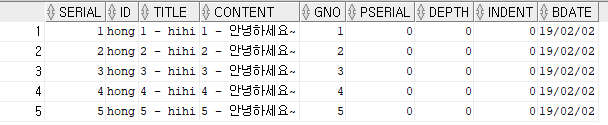
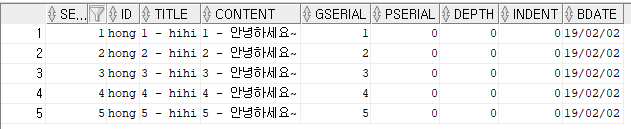
modify

diff --git a/DB/hierarchical.md b/DB/hierarchical.md
@@ -5,7 +5,7 @@
 # 게시판 글과 답글, 댓글을 위한 기본적인 계층형 쿼리 정리
 
 - 총 두 가지 방법이 있다.
-- 게시판 자체를 계층형을 고려하여 구성하거나[1](#계층형-게시판-만들기), start with-connect by 문법을 활용해 애초에 계층형으로 쿼리를 날리는 방식[2](#계층형-쿼리-사용하기)이다
+- 게시판 자체를 계층형을 고려하여 구성하거나([1](#계층형-게시판-만들기)), start with-connect by 문법을 활용해 애초에 계층형으로 쿼리를 날리는 방식([2](#계층형-쿼리-사용하기)) 이다
 - 후자의 방법은 바로 윗 부모의 시리얼을 알고 적절하게 쿼리를 날리면 오라클이 알아서 정렬해 준다
 - 부모가 같은 게시글 집합에서는 그냥 시리얼 넘버로 정렬(asc or desc)하면 된다
 - 이하 예제에서 사용할 테이블명은 **BOARD**, 시퀀스명은 **SEQ_BOARD** 이다
@@ -39,6 +39,10 @@ insert into board (serial, id, title, content,
 ![mainContent](https://github.com/daesungRa/MyStudy/blob/master/imgs/db/hierarchical_fiveMainContent.PNG)
 
 ### 답글 등록하기
+
+- 답글도 새 글이므로 새로운 시리얼(serial) 을 부여하고,
+- 그룹 시리얼(gSerial) 은 참조하는 원본 글의 그룹 시리얼(gSerial),
+- 부모 시리얼(pSerial) 은 바로 윗 부모의 시리얼(serial)
 
 ### 답글의 답글 등록하기
 
